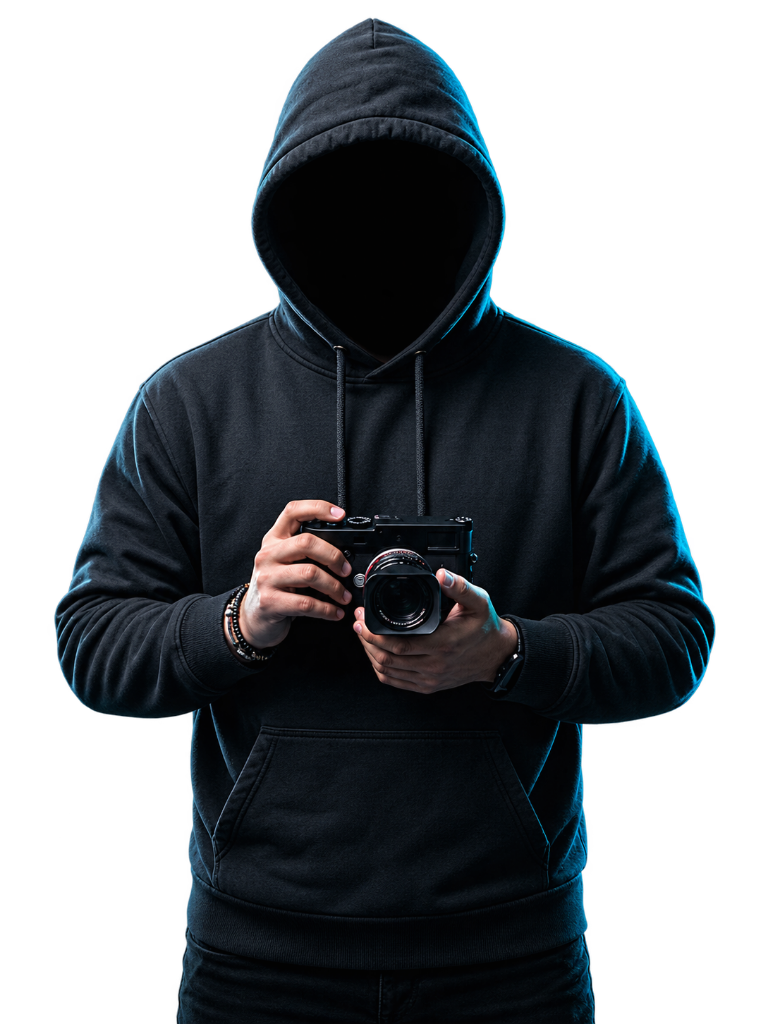
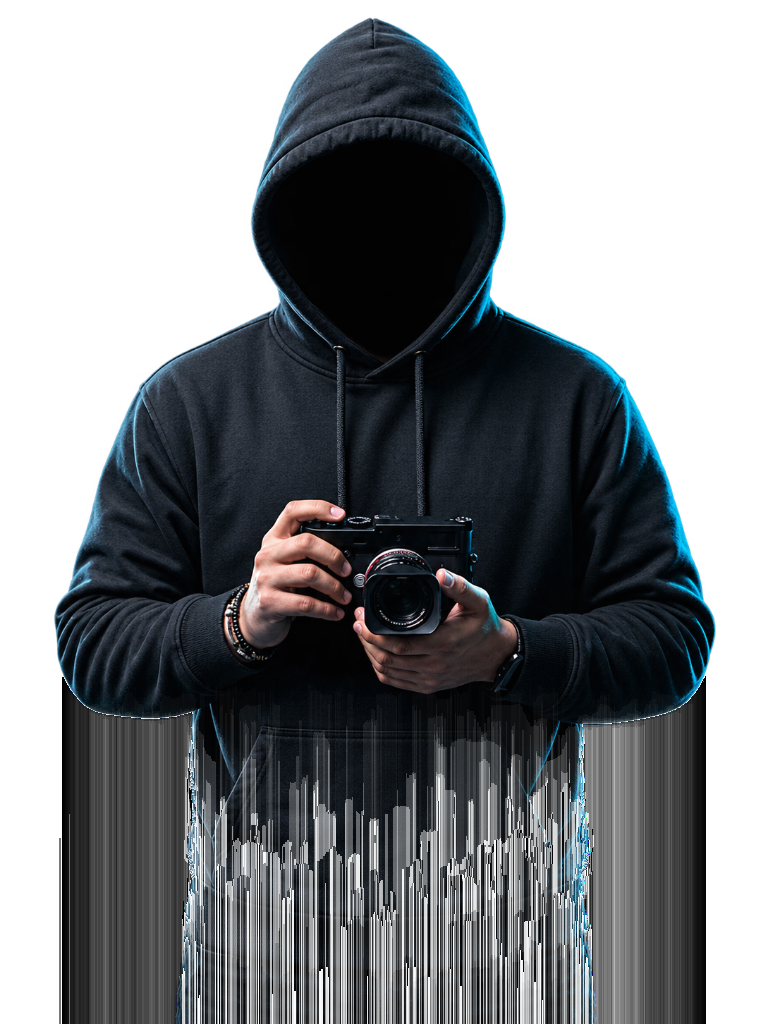
feat: layer PHOTOGRAPHER wordmark in front of hoodie cutout and balance right column content

Changed region(s): [[0.0603, 0.6562, 0.9345, 1.0]]

diff --git a/src/components/organisms/HeroSection.jsx b/src/components/organisms/HeroSection.jsx
@@ -1,5 +1,5 @@
 import React from 'react';
-import { ArrowUpRight, Instagram, Twitter, Globe, Linkedin, Camera } from 'lucide-react';
+import { ArrowUpRight, Instagram, Twitter, Globe, Linkedin, Camera, Sparkles, CheckCircle2 } from 'lucide-react';
 import { SectionEyebrow } from '../atoms/Typography';
 import { useLightbox } from '../../context/LightboxContext';
 import hoodiePhotographerImg from '../../assets/hoodie-photographer.png';
@@ -21,9 +21,9 @@ export const HeroSection = ({ profile, featuredProjects = [] }) => {
       className="relative min-h-screen flex flex-col justify-between pt-24 pb-4 sm:pt-28 sm:pb-8 overflow-hidden bg-[#f6f7f9] dark:bg-[#070709] transition-colors duration-500"
     >
       {/* ─── ATMOSPHERIC BACKGROUND SPOTLIGHT ─── */}
-      <div className="absolute inset-0 pointer-events-none overflow-hidden">
+      <div className="absolute inset-0 pointer-events-none overflow-hidden z-0">
         {/* Center blue/cyan radial glow behind hoodie character */}
-        <div className="absolute top-[32%] left-1/2 -translate-x-1/2 -translate-y-1/2 w-[600px] sm:w-[850px] h-[450px] sm:h-[600px] bg-[radial-gradient(ellipse_at_center,rgba(37,99,235,0.24),transparent_70%)] dark:bg-[radial-gradient(ellipse_at_center,rgba(30,58,138,0.42),transparent_70%)] blur-2xl" />
+        <div className="absolute top-[32%] left-1/2 -translate-x-1/2 -translate-y-1/2 w-[600px] sm:w-[850px] h-[450px] sm:h-[600px] bg-[radial-gradient(ellipse_at_center,rgba(37,99,235,0.22),transparent_70%)] dark:bg-[radial-gradient(ellipse_at_center,rgba(30,58,138,0.40),transparent_70%)] blur-2xl" />
         {/* Subtle secondary ambient rim */}
         <div className="absolute top-1/4 right-[12%] w-80 h-80 bg-cyan-500/10 dark:bg-cyan-500/15 rounded-full blur-3xl" />
         {/* Deep dark vignette edges */}
@@ -31,11 +31,11 @@ export const HeroSection = ({ profile, featuredProjects = [] }) => {
       </div>
 
       {/* ─── MAIN STAGE CONTAINER (3-COLUMN SPLIT: LEFT TEXT | CENTER HOODIE CUTOUT | RIGHT BIO) ─── */}
-      <div className="max-w-[1440px] mx-auto px-6 sm:px-10 lg:px-14 xl:px-16 w-full relative z-20 my-auto">
+      <div className="max-w-[1440px] mx-auto px-6 sm:px-10 lg:px-14 xl:px-16 w-full relative my-auto">
         <div className="grid grid-cols-1 lg:grid-cols-12 gap-8 lg:gap-4 items-center">
           
-          {/* ─── LEFT COLUMN: GREETING & PILL CTA (Elevated higher on desktop as requested) ─── */}
-          <div className="lg:col-span-4 flex flex-col items-start text-left z-20 order-1 lg:-translate-y-10 xl:-translate-y-14 2xl:-translate-y-16 transition-transform duration-300">
+          {/* ─── LEFT COLUMN: GREETING & PILL CTA (z-30: In front and clickable) ─── */}
+          <div className="lg:col-span-4 flex flex-col items-start text-left relative z-30 order-1 lg:-translate-y-10 xl:-translate-y-14 2xl:-translate-y-16 transition-transform duration-300">
             <SectionEyebrow className="mb-3 text-[11px] text-blue-600 dark:text-blue-400">
               Visual Storyteller • {profile.location}
             </SectionEyebrow>
@@ -53,7 +53,7 @@ export const HeroSection = ({ profile, featuredProjects = [] }) => {
               <button
                 type="button"
                 onClick={(e) => handleScrollTo(e, '#works')}
-                className="group inline-flex items-center gap-2.5 px-6 py-3 rounded-full bg-blue-600 hover:bg-blue-500 text-white font-semibold text-xs sm:text-sm tracking-wide shadow-lg shadow-blue-600/30 transition-all duration-300 hover:scale-105 active:scale-95"
+                className="group inline-flex items-center gap-2.5 px-6 py-3 rounded-full bg-blue-600 hover:bg-blue-500 text-white font-semibold text-xs sm:text-sm tracking-wide shadow-lg shadow-blue-600/30 transition-all duration-300 hover:scale-105 active:scale-95 cursor-pointer"
               >
                 <span>Explore Works</span>
                 <ArrowUpRight className="w-4 h-4 transition-transform group-hover:translate-x-0.5 group-hover:-translate-y-0.5" />
@@ -62,21 +62,21 @@ export const HeroSection = ({ profile, featuredProjects = [] }) => {
               <button
                 type="button"
                 onClick={(e) => handleScrollTo(e, '#contact')}
-                className="inline-flex items-center gap-2 px-5 py-3 rounded-full border border-neutral-300 dark:border-white/15 bg-white/70 dark:bg-white/[0.04] backdrop-blur-md text-neutral-800 dark:text-neutral-200 hover:text-black dark:hover:text-white hover:border-neutral-400 dark:hover:border-white/40 font-medium text-xs sm:text-sm tracking-wide transition-all duration-300 active:scale-95 shadow-sm"
+                className="inline-flex items-center gap-2 px-5 py-3 rounded-full border border-neutral-300 dark:border-white/15 bg-white/70 dark:bg-white/[0.04] backdrop-blur-md text-neutral-800 dark:text-neutral-200 hover:text-black dark:hover:text-white hover:border-neutral-400 dark:hover:border-white/40 font-medium text-xs sm:text-sm tracking-wide transition-all duration-300 active:scale-95 shadow-sm cursor-pointer"
               >
                 Get in Touch
               </button>
             </div>
           </div>
 
-          {/* ─── CENTER COLUMN: CUTOUT BLACK HOODIE PHOTOGRAPHER (HOLDING LEICA CAMERA) ─── */}
-          <div className="lg:col-span-4 flex flex-col items-center justify-center relative z-20 order-2 sm:order-2 my-2 lg:my-0">
+          {/* ─── CENTER COLUMN: CUTOUT BLACK HOODIE PHOTOGRAPHER (z-10: Behind PHOTOGRAPHER text) ─── */}
+          <div className="lg:col-span-4 flex flex-col items-center justify-center relative z-10 order-2 sm:order-2 my-2 lg:my-0">
             <div className="relative w-full max-w-[340px] sm:max-w-[420px] lg:max-w-[460px] xl:max-w-[500px] 2xl:max-w-[540px] mx-auto group flex items-center justify-center">
               
               {/* Backlight Aura around the head and shoulders */}
               <div className="absolute top-10 left-1/2 -translate-x-1/2 w-56 h-56 sm:w-72 sm:h-72 bg-blue-500/10 dark:bg-blue-400/20 rounded-full blur-3xl pointer-events-none group-hover:bg-blue-500/20 transition-all duration-700" />
 
-              {/* Character Transparent Cutout Image — 100% clean and seamless (no masks, no borders, no clipped shadows) */}
+              {/* Character Transparent Cutout Image */}
               <div className="relative w-full flex items-center justify-center">
                 <img
                   src={hoodiePhotographerImg}
@@ -87,33 +87,75 @@ export const HeroSection = ({ profile, featuredProjects = [] }) => {
             </div>
           </div>
 
-          {/* ─── RIGHT COLUMN: 12+ YEARS BADGE & SOCIALS (About Me removed, 12+ Years moved here) ─── */}
-          <div className="lg:col-span-4 flex flex-col items-start lg:pl-6 z-20 order-3 lg:-translate-y-10 xl:-translate-y-14 2xl:-translate-y-16 transition-transform duration-300">
-            {/* 12+ Years Behind Lens Badge */}
-            <div className="bg-white/90 dark:bg-[#121318]/95 backdrop-blur-md text-neutral-900 dark:text-white border border-neutral-200 dark:border-white/10 px-4 py-2.5 rounded-2xl shadow-xl flex items-center gap-3 mb-6 transition-all duration-300 hover:scale-105">
-              <div className="w-8 h-8 rounded-xl bg-blue-500/15 dark:bg-blue-400/15 text-blue-600 dark:text-blue-400 flex items-center justify-center font-bold text-sm shadow-inner">
-                ★
+          {/* ─── RIGHT COLUMN: BALANCED EDITORIAL CREDENTIALS & CONNECT (z-30: In front and clickable) ─── */}
+          <div className="lg:col-span-4 flex flex-col items-start lg:pl-6 relative z-30 order-3 lg:-translate-y-10 xl:-translate-y-14 2xl:-translate-y-16 transition-transform duration-300 w-full max-w-md">
+            
+            {/* Top Stat Cards Row */}
+            <div className="flex flex-wrap items-center gap-3 mb-4 w-full">
+              {/* 12+ Years Behind Lens Badge */}
+              <div className="bg-white/90 dark:bg-[#121318]/95 backdrop-blur-md text-neutral-900 dark:text-white border border-neutral-200 dark:border-white/10 px-4 py-2.5 rounded-2xl shadow-lg flex items-center gap-3 transition-all duration-300 hover:scale-105">
+                <div className="w-8 h-8 rounded-xl bg-blue-500/15 dark:bg-blue-400/15 text-blue-600 dark:text-blue-400 flex items-center justify-center font-bold text-sm shadow-inner">
+                  ★
+                </div>
+                <div>
+                  <span className="block text-sm font-bold leading-tight">12+ Years</span>
+                  <span className="text-[10px] uppercase tracking-widest text-neutral-500 dark:text-neutral-400 font-mono">Behind Lens</span>
+                </div>
               </div>
-              <div>
-                <span className="block text-sm font-bold leading-tight">12+ Years</span>
-                <span className="text-[10px] uppercase tracking-widest text-neutral-500 dark:text-neutral-400 font-mono">Behind Lens</span>
+
+              {/* Master Gear Pill */}
+              <div className="bg-white/80 dark:bg-[#121318]/90 backdrop-blur-md text-neutral-900 dark:text-white border border-neutral-200 dark:border-white/10 px-3.5 py-2.5 rounded-2xl shadow-sm flex items-center gap-2.5">
+                <Camera className="w-4 h-4 text-blue-600 dark:text-blue-400" />
+                <div>
+                  <span className="block text-xs font-semibold leading-tight">Leica & Hasselblad</span>
+                  <span className="text-[9px] uppercase tracking-wider text-neutral-500 dark:text-neutral-400 font-mono">Prime Glass</span>
+                </div>
               </div>
             </div>
 
-            {/* Find me on: Socials List */}
-            <div className="w-full pt-1 border-t border-neutral-200 dark:border-neutral-800/80">
-              <span className="block text-[11px] font-mono uppercase tracking-widest text-neutral-500 dark:text-neutral-400 mb-3">
-                Find me on:
+            {/* Editorial Statement & Disciplines Card */}
+            <div className="w-full bg-white/70 dark:bg-neutral-900/50 border border-neutral-200/90 dark:border-white/[0.08] backdrop-blur-md rounded-2xl p-4 mb-4 shadow-sm">
+              <div className="flex items-center justify-between mb-2">
+                <div className="flex items-center gap-2">
+                  <span className="relative flex h-2 w-2">
+                    <span className="animate-ping absolute inline-flex h-full w-full rounded-full bg-emerald-400 opacity-75" />
+                    <span className="relative inline-flex rounded-full h-2 w-2 bg-emerald-500" />
+                  </span>
+                  <span className="text-[10px] uppercase tracking-widest font-mono text-emerald-600 dark:text-emerald-400 font-bold">
+                    Worldwide Commissions
+                  </span>
+                </div>
+                <span className="text-[10px] font-mono text-neutral-500 dark:text-neutral-400">2026 Season</span>
+              </div>
+              <p className="text-xs text-neutral-600 dark:text-neutral-300 leading-relaxed font-light mb-3">
+                Crafting atmospheric imagery where shadow meets emotion. Specializing in high-fashion editorials and geometric architecture.
+              </p>
+              <div className="flex flex-wrap gap-1.5 pt-2 border-t border-neutral-200/70 dark:border-white/5">
+                {['High-Fashion', 'Editorial', 'Monochrome', 'Architectural'].map((tag) => (
+                  <span
+                    key={tag}
+                    className="px-2 py-0.5 rounded-md bg-neutral-200/60 dark:bg-white/[0.05] text-[10px] font-mono text-neutral-700 dark:text-neutral-300"
+                  >
+                    {tag}
+                  </span>
+                ))}
+              </div>
+            </div>
+
+            {/* Social Connect Row */}
+            <div className="w-full pt-3 border-t border-neutral-200 dark:border-neutral-800/80 flex items-center justify-between">
+              <span className="text-[11px] font-mono uppercase tracking-widest text-neutral-500 dark:text-neutral-400">
+                Connect:
               </span>
-              <div className="flex items-center gap-2.5">
+              <div className="flex items-center gap-2">
                 <a
                   href="https://instagram.com"
                   target="_blank"
                   rel="noreferrer"
                   aria-label="Instagram"
-                  className="w-9 h-9 rounded-full bg-neutral-200/80 hover:bg-neutral-900 hover:text-white dark:bg-neutral-900/90 dark:hover:bg-blue-600 text-neutral-700 dark:text-neutral-300 dark:hover:text-white border border-neutral-300 dark:border-neutral-800 flex items-center justify-center transition-all duration-300 hover:scale-110 active:scale-95 shadow-sm"
+                  className="w-8 h-8 rounded-full bg-neutral-200/80 hover:bg-neutral-900 hover:text-white dark:bg-neutral-900/90 dark:hover:bg-blue-600 text-neutral-700 dark:text-neutral-300 dark:hover:text-white border border-neutral-300 dark:border-neutral-800 flex items-center justify-center transition-all duration-300 hover:scale-110 active:scale-95 shadow-sm"
                 >
-                  <Instagram className="w-4 h-4" />
+                  <Instagram className="w-3.5 h-3.5" />
                 </a>
 
                 <a
@@ -121,9 +163,9 @@ export const HeroSection = ({ profile, featuredProjects = [] }) => {
                   target="_blank"
                   rel="noreferrer"
                   aria-label="Twitter / X"
-                  className="w-9 h-9 rounded-full bg-neutral-200/80 hover:bg-neutral-900 hover:text-white dark:bg-neutral-900/90 dark:hover:bg-blue-600 text-neutral-700 dark:text-neutral-300 dark:hover:text-white border border-neutral-300 dark:border-neutral-800 flex items-center justify-center transition-all duration-300 hover:scale-110 active:scale-95 shadow-sm"
+                  className="w-8 h-8 rounded-full bg-neutral-200/80 hover:bg-neutral-900 hover:text-white dark:bg-neutral-900/90 dark:hover:bg-blue-600 text-neutral-700 dark:text-neutral-300 dark:hover:text-white border border-neutral-300 dark:border-neutral-800 flex items-center justify-center transition-all duration-300 hover:scale-110 active:scale-95 shadow-sm"
                 >
-                  <Twitter className="w-4 h-4" />
+                  <Twitter className="w-3.5 h-3.5" />
                 </a>
 
                 <a
@@ -131,9 +173,9 @@ export const HeroSection = ({ profile, featuredProjects = [] }) => {
                   target="_blank"
                   rel="noreferrer"
                   aria-label="Behance"
-                  className="w-9 h-9 rounded-full bg-neutral-200/80 hover:bg-neutral-900 hover:text-white dark:bg-neutral-900/90 dark:hover:bg-blue-600 text-neutral-700 dark:text-neutral-300 dark:hover:text-white border border-neutral-300 dark:border-neutral-800 flex items-center justify-center transition-all duration-300 hover:scale-110 active:scale-95 shadow-sm"
+                  className="w-8 h-8 rounded-full bg-neutral-200/80 hover:bg-neutral-900 hover:text-white dark:bg-neutral-900/90 dark:hover:bg-blue-600 text-neutral-700 dark:text-neutral-300 dark:hover:text-white border border-neutral-300 dark:border-neutral-800 flex items-center justify-center transition-all duration-300 hover:scale-110 active:scale-95 shadow-sm"
                 >
-                  <Globe className="w-4 h-4" />
+                  <Globe className="w-3.5 h-3.5" />
                 </a>
 
                 <a
@@ -141,30 +183,20 @@ export const HeroSection = ({ profile, featuredProjects = [] }) => {
                   target="_blank"
                   rel="noreferrer"
                   aria-label="LinkedIn"
-                  className="w-9 h-9 rounded-full bg-neutral-200/80 hover:bg-neutral-900 hover:text-white dark:bg-neutral-900/90 dark:hover:bg-blue-600 text-neutral-700 dark:text-neutral-300 dark:hover:text-white border border-neutral-300 dark:border-neutral-800 flex items-center justify-center transition-all duration-300 hover:scale-110 active:scale-95 shadow-sm"
+                  className="w-8 h-8 rounded-full bg-neutral-200/80 hover:bg-neutral-900 hover:text-white dark:bg-neutral-900/90 dark:hover:bg-blue-600 text-neutral-700 dark:text-neutral-300 dark:hover:text-white border border-neutral-300 dark:border-neutral-800 flex items-center justify-center transition-all duration-300 hover:scale-110 active:scale-95 shadow-sm"
                 >
-                  <Linkedin className="w-4 h-4" />
+                  <Linkedin className="w-3.5 h-3.5" />
                 </a>
               </div>
             </div>
 
-            {/* Interactive Feature Pill */}
-            <div className="mt-5 flex items-center gap-3">
-              <span className="text-[11px] font-mono text-neutral-500 dark:text-neutral-400">
-                Discipline:
-              </span>
-              <div className="inline-flex items-center gap-2 px-3 py-1.5 rounded-full bg-white dark:bg-[#121318] border border-neutral-300 dark:border-white/10 shadow-sm text-xs font-mono text-neutral-800 dark:text-neutral-200">
-                <span className="w-2 h-2 rounded-full bg-blue-500 animate-pulse" />
-                <span>Cinematic Visuals</span>
-              </div>
-            </div>
           </div>
         </div>
       </div>
 
-      {/* ─── MASSIVE METALLIC TITANIC WORDMARK: "PHOTOGRAPHER" (ELEVATED HIGHER ON DESKTOP) ─── */}
-      <div className="w-full relative z-10 flex items-center justify-center overflow-hidden lg:-mt-24 xl:-mt-32 2xl:-mt-40 select-none pointer-events-none">
-        <h2 className="text-[12.5vw] sm:text-[11.5vw] lg:text-[10.5vw] xl:text-[145px] 2xl:text-[180px] font-black uppercase tracking-tight text-center leading-none bg-gradient-to-b from-neutral-300 via-neutral-400 to-neutral-600 dark:from-white/95 dark:via-neutral-300/80 dark:to-neutral-700/25 bg-clip-text text-transparent drop-shadow-[0_15px_30px_rgba(0,0,0,0.35)] opacity-95 transition-all duration-500">
+      {/* ─── MASSIVE METALLIC TITANIC WORDMARK: "PHOTOGRAPHER" (z-20: IN FRONT OF THE HOODIE IMAGE) ─── */}
+      <div className="w-full relative z-20 flex items-center justify-center overflow-hidden lg:-mt-24 xl:-mt-32 2xl:-mt-40 select-none pointer-events-none">
+        <h2 className="text-[12.5vw] sm:text-[11.5vw] lg:text-[10.5vw] xl:text-[145px] 2xl:text-[180px] font-black uppercase tracking-tight text-center leading-none bg-gradient-to-b from-neutral-300 via-neutral-400 to-neutral-600 dark:from-white/95 dark:via-neutral-200/90 dark:to-neutral-500/25 bg-clip-text text-transparent drop-shadow-[0_15px_30px_rgba(0,0,0,0.35)] opacity-95 transition-all duration-500">
           PHOTOGRAPHER
         </h2>
       </div>
